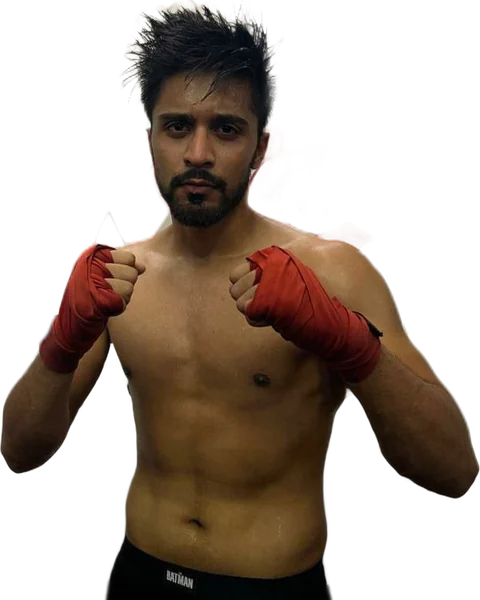
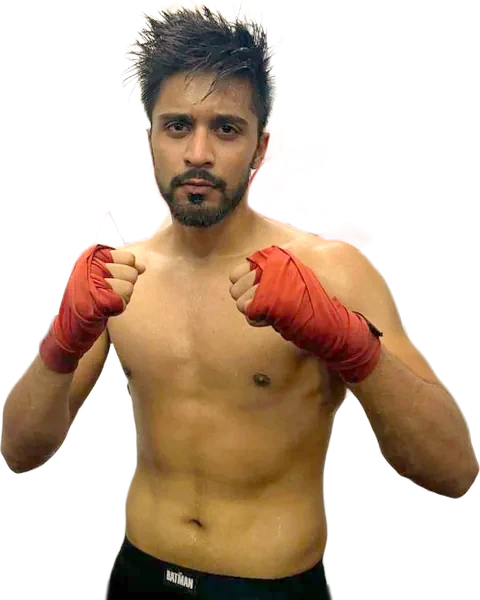
Add files via upload

diff --git a/pages/wds-fight-night-19.html b/pages/wds-fight-night-19.html
@@ -97,7 +97,7 @@
             <span class="fn19-country"><span>India</span><img src="https://cdn.jsdelivr.net/gh/jdecked/twemoji@15.1.0/assets/svg/1f1ee-1f1f3.svg" alt="" loading="lazy"></span>
           </span>
         </button>
-        <div class="fn19-details" id="fn19-d1" aria-hidden="true"><div class="fn19-details-inner"><div class="fn19-stat"><div class="l">N/A</div><div class="l">N/A</div><div class="r">1-1-0</div></div><div class="fn19-stat"><div class="l">N/A</div><div class="l">N/A</div><div class="r loss">Loss</div></div><div class="fn19-stat"><div class="l">N/A</div><div class="l">N/A</div><div class="r">180 CM</div></div></div></div>
+        <div class="fn19-details" id="fn19-d1" aria-hidden="true"><div class="fn19-details-inner"><div class="fn19-stat"><div class="l">N/A</div><div class="lab">Pro Record</div><div class="r">1-1-0</div></div><div class="fn19-stat"><div class="l">N/A</div><div class="lab">Last Fight Result</div><div class="r loss">Loss</div></div><div class="fn19-stat"><div class="l">N/A</div><div class="lab">Height</div><div class="r">180 CM</div></div></div></div>
       </article>
       <article class="fn19-fight">
         <button type="button" class="fn19-summary" aria-expanded="false" aria-controls="fn19-d2">
